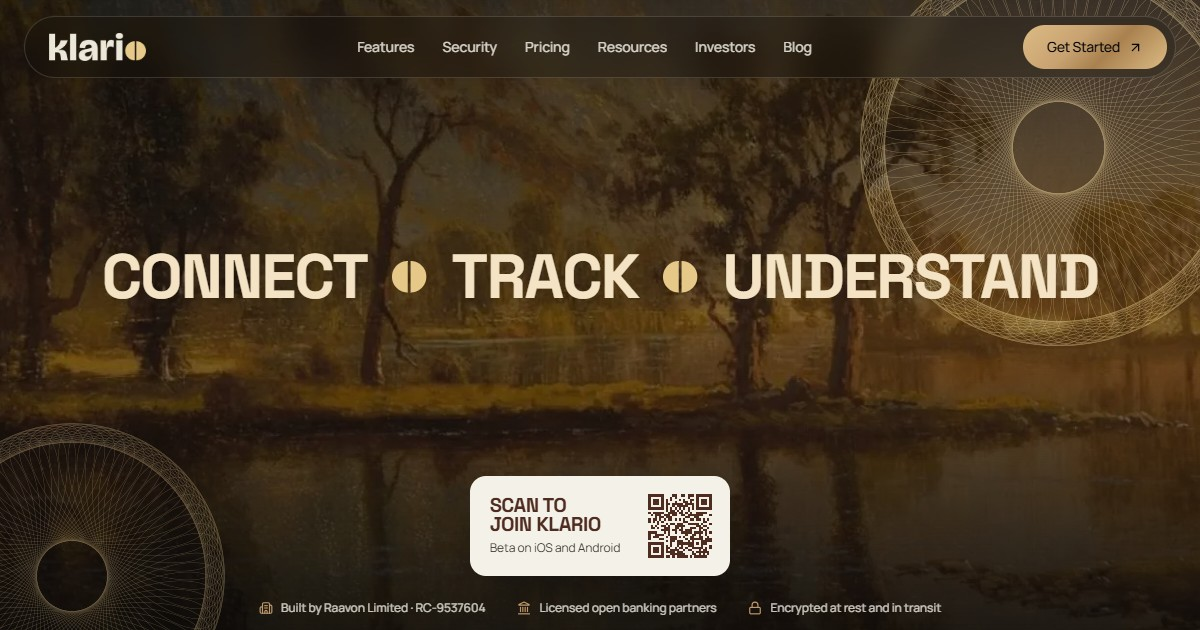
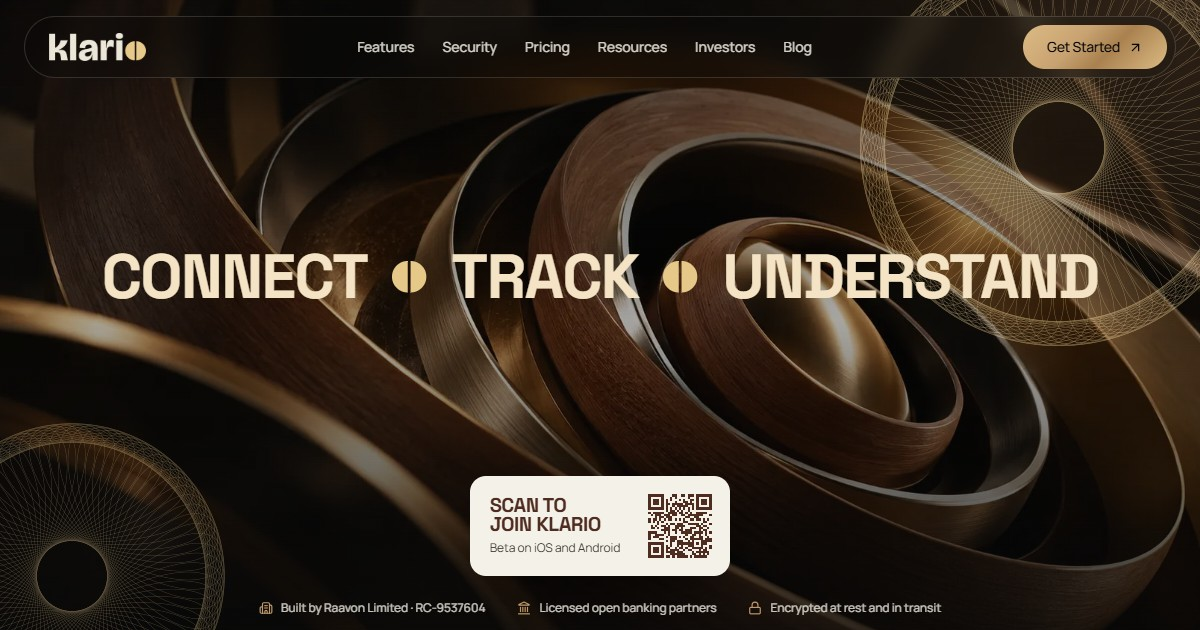
Update slideshow images and format for improved performance
- Replaced the existing JPEG images in the slideshow with new WEBP format images, reducing file size and improving loading times.
- Updated the CAROUSEL constant to reflect the new image count and format, ensuring the slideshow functions correctly with the new assets.
- Removed outdated JPEG images from the public directory to streamline asset management.

diff --git a/components/ui/Slideshow.tsx b/components/ui/Slideshow.tsx
@@ -4,9 +4,10 @@ import { useEffect, useState } from "react";
 import Image from "next/image";
 import { cn } from "@/lib/utils";
 
-// The landing carousel: the sign-in paintings from klario-business, copied
-// to public/hero/caro. Warm and busy, so they hold up under an ink wash.
-export const CAROUSEL = Array.from({ length: 12 }, (_, i) => `/hero/caro/Caro${i + 1}.jpg`);
+// The landing carousel: Caro1–Caro10.webp in public/hero/caro. Warm and busy,
+// so they hold up under an ink wash. Change the count when slides are added
+// or removed; a missing file shows as a blank slide, not a build error.
+export const CAROUSEL = Array.from({ length: 10 }, (_, i) => `/hero/caro/Caro${i + 1}.webp`);
 export const CAROUSEL_MS = 3800;
 
 /** Advances through `n` slides on a timer; stays on the first for reduced motion. */
